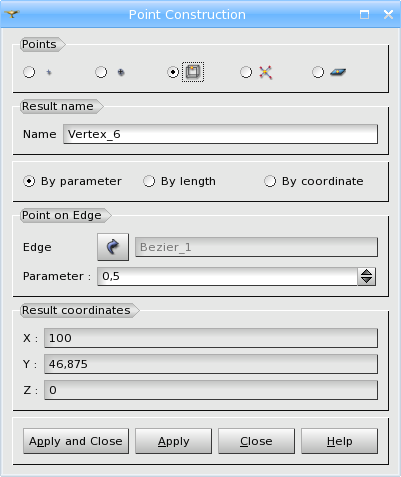
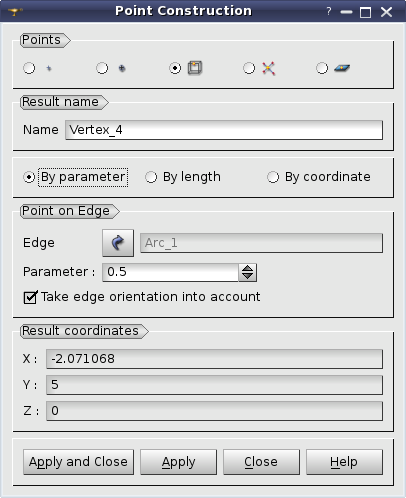
0022782: [CEA 1315] GetFirstVertex does not return the edge's starting point

Changed region(s): [[0.0, 0.0, 1.0, 0.9979]]

diff --git a/src/GEOMGUI/GEOM_msg_en.ts b/src/GEOMGUI/GEOM_msg_en.ts
@@ -1353,6 +1353,10 @@ Please, select face, shell or solid and try again</translation>
         <translation>By length</translation>
     </message>
     <message>
+        <source>GEOM_TAKE_ORIENTATION_INTO_ACCOUNT</source>
+        <translation>Take edge orientation into account</translation>
+    </message>
+    <message>
         <source>GEOM_PARTITION</source>
         <translation>Partition</translation>
     </message>

diff --git a/src/GEOM_SWIG/geomBuilder.py b/src/GEOM_SWIG/geomBuilder.py
@@ -1148,6 +1148,11 @@ class geomBuilder(object, GEOM._objref_GEOM_Gen):
         ## Create a point, corresponding to the given parameter on the given curve.
         #  @param theRefCurve The referenced curve.
         #  @param theParameter Value of parameter on the referenced curve.
+        #  @param takeOrientationIntoAccount flag that tells if it is necessary
+        #         to take the curve's orientation into account for the
+        #         operation. I.e. if this flag is set, the results for the same
+        #         parameters (except the value 0.5) is different for forward
+        #         and reversed curves. If it is not set the result is the same.
         #  @param theName Object name; when specified, this parameter is used
         #         for result publication in the study. Otherwise, if automatic
         #         publication is switched on, default value is used for result name.
@@ -1156,13 +1161,20 @@ class geomBuilder(object, GEOM._objref_GEOM_Gen):
         #
         #  @ref tui_creation_point "Example"
         @ManageTransactions("BasicOp")
-        def MakeVertexOnCurve(self, theRefCurve, theParameter, theName=None):
+        def MakeVertexOnCurve(self, theRefCurve, theParameter,
+                              takeOrientationIntoAccount=False, theName=None):
             """
             Create a point, corresponding to the given parameter on the given curve.
 
             Parameters:
                 theRefCurve The referenced curve.
                 theParameter Value of parameter on the referenced curve.
+                takeOrientationIntoAccount flag that tells if it is necessary
+                        to take the curve's orientation into account for the
+                        operation. I.e. if this flag is set, the results for
+                        the same parameters (except the value 0.5) is different
+                        for forward and reversed curves. If it is not set
+                        the result is the same.
                 theName Object name; when specified, this parameter is used
                         for result publication in the study. Otherwise, if automatic
                         publication is switched on, default value is used for result name.
@@ -1174,8 +1186,10 @@ class geomBuilder(object, GEOM._objref_GEOM_Gen):
                 p_on_arc = geompy.MakeVertexOnCurve(Arc, 0.25)
             """
             # Example: see GEOM_TestAll.py
-            theParameter, Parameters = ParseParameters(theParameter)
-            anObj = self.BasicOp.MakePointOnCurve(theRefCurve, theParameter)
+            theParameter, takeOrientationIntoAccount, Parameters = ParseParameters(
+                theParameter, takeOrientationIntoAccount)
+            anObj = self.BasicOp.MakePointOnCurve(theRefCurve, theParameter,
+                                                  takeOrientationIntoAccount)
             RaiseIfFailed("MakePointOnCurve", self.BasicOp)
             anObj.SetParameters(Parameters)
             self._autoPublish(anObj, theName, "vertex")

diff --git a/src/GEOM_I/GEOM_IBasicOperations_i.cc b/src/GEOM_I/GEOM_IBasicOperations_i.cc
@@ -135,7 +135,9 @@ GEOM::GEOM_Object_ptr GEOM_IBasicOperations_i::MakePointOnLinesIntersection
  */
 //=============================================================================
 GEOM::GEOM_Object_ptr GEOM_IBasicOperations_i::MakePointOnCurve
-                  (GEOM::GEOM_Object_ptr theCurve,  CORBA::Double theParameter)
+                  (GEOM::GEOM_Object_ptr theCurve,
+                   CORBA::Double         theParameter,
+                   CORBA::Boolean        takeOrientationIntoAccount)
 {
   GEOM::GEOM_Object_var aGEOMObject;
 
@@ -147,8 +149,8 @@ GEOM::GEOM_Object_ptr GEOM_IBasicOperations_i::MakePointOnCurve
   if (aReference.IsNull()) return aGEOMObject._retn();
 
   //Create the point
-  Handle(GEOM_Object) anObject =
-    GetOperations()->MakePointOnCurve(aReference, theParameter);
+  Handle(GEOM_Object) anObject = GetOperations()->MakePointOnCurve
+        (aReference, theParameter, takeOrientationIntoAccount);
   if (!GetOperations()->IsDone() || anObject.IsNull())
     return aGEOMObject._retn();
 

diff --git a/src/BasicGUI/BasicGUI_PointDlg.h b/src/BasicGUI/BasicGUI_PointDlg.h
@@ -31,7 +31,7 @@
 #include "GEOM_GenericObjPtr.h"
 #include <QMap>
 
-class DlgRef_2Sel1Spin;
+class DlgRef_2Sel1Spin2Check;
 class DlgRef_3Spin;
 class DlgRef_2Sel;
 class DlgRef_1Sel3Spin;
@@ -88,7 +88,7 @@ private:
 
   DlgRef_3Spin*                      GroupXYZ;
   DlgRef_1Sel3Spin*                  GroupRefPoint;
-  DlgRef_2Sel1Spin*                  GroupOnCurve;
+  DlgRef_2Sel1Spin2Check*            GroupOnCurve;
   DlgRef_2Sel*                       GroupLineIntersection;
   DlgRef_1Sel2Spin*                  GroupOnSurface;
   
@@ -115,7 +115,7 @@ private slots:
   void                               ValueChangedInSpinBox( double );
   void                               SetDoubleSpinBoxStep( double );
   void                               ClickParamCoord( int );
-  void                               CheckBoxClicked( int );
+  void                               CheckBoxClicked();
   void                               updateSize();
 };
 

diff --git a/src/GEOM_I_Superv/GEOM_Superv_i.cc b/src/GEOM_I_Superv/GEOM_Superv_i.cc
@@ -722,7 +722,7 @@ GEOM::GEOM_Object_ptr GEOM_Superv_i::MakePointOnCurve (GEOM::GEOM_Object_ptr the
   beginService( " GEOM_Superv_i::MakePointOnCurve" );
   MESSAGE("GEOM_Superv_i::MakePointOnCurve");
   getBasicOp();
-  GEOM::GEOM_Object_ptr anObj = myBasicOp->MakePointOnCurve(theRefCurve, theParameter);
+  GEOM::GEOM_Object_ptr anObj = myBasicOp->MakePointOnCurve(theRefCurve, theParameter, false);
   endService( " GEOM_Superv_i::MakePointOnCurve" );
   return anObj;
 }
